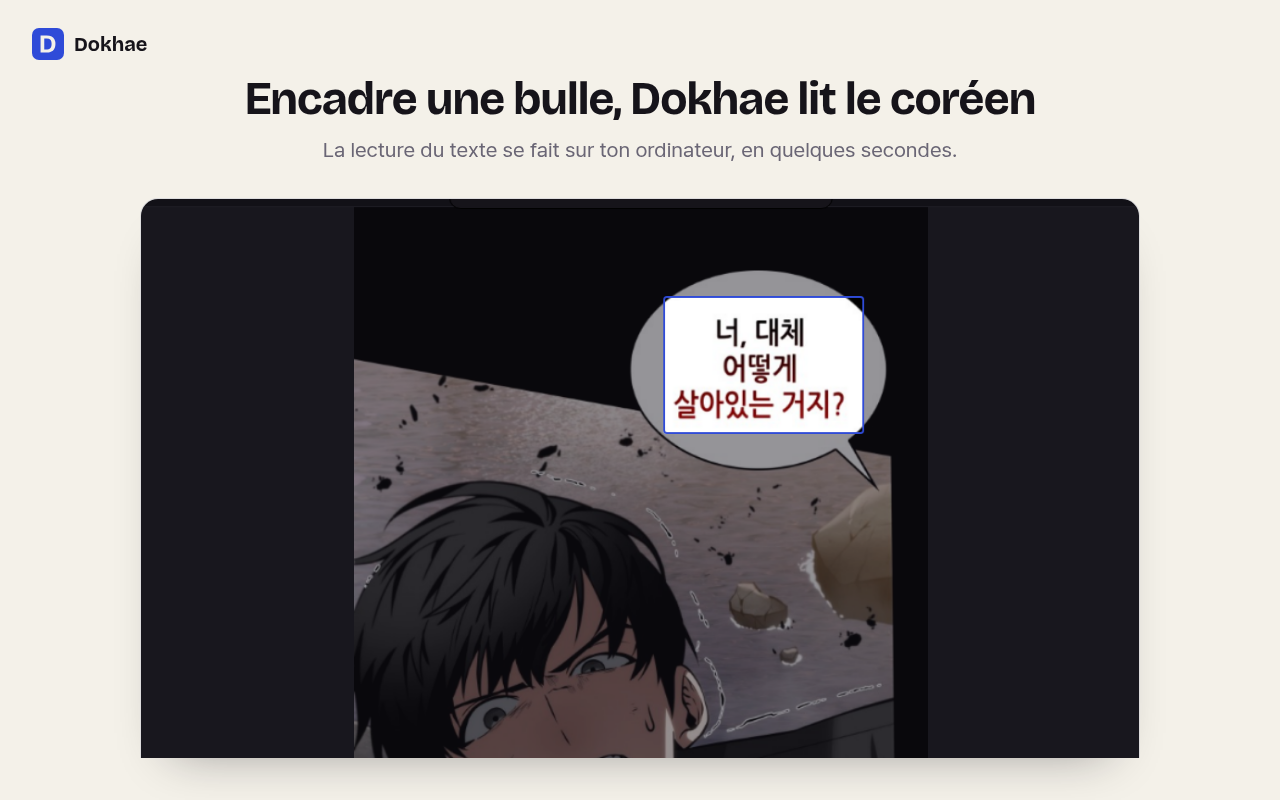
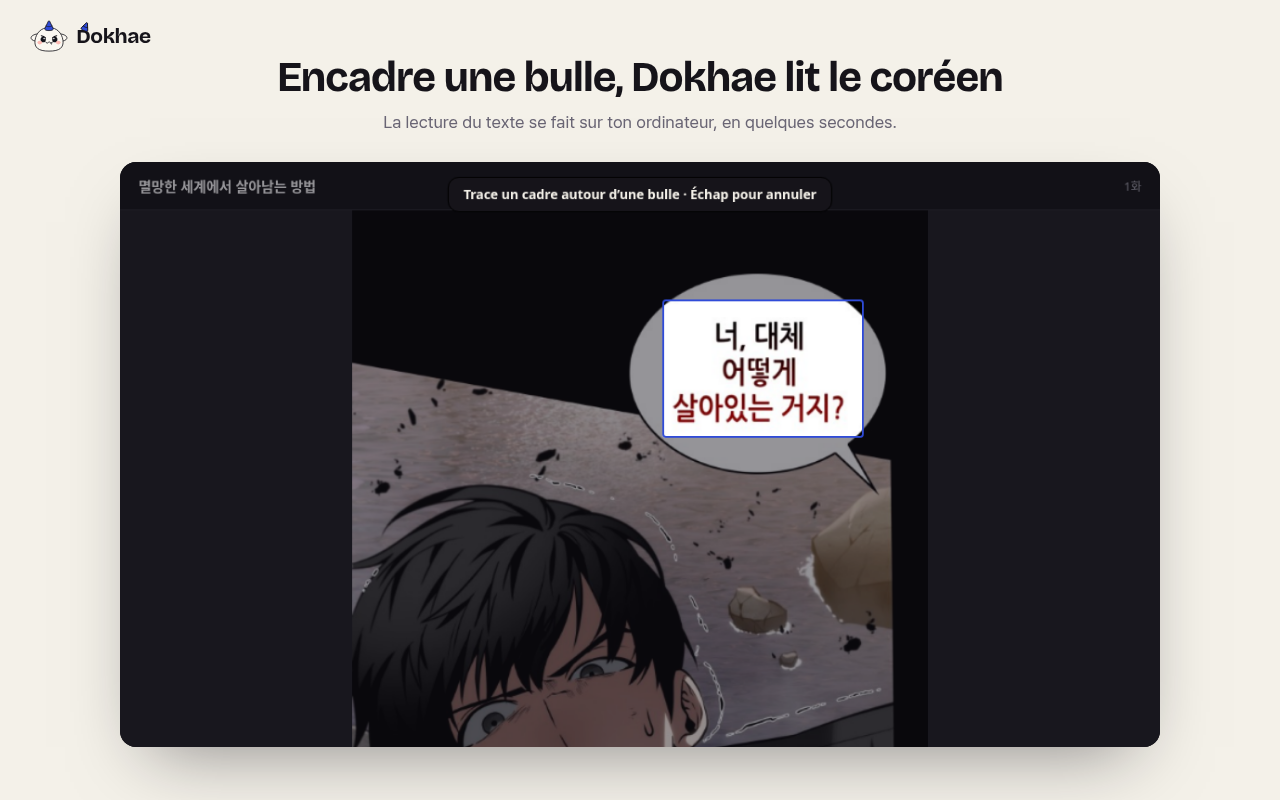
feat(store): regenerate the store visuals with Dok, from a script
The five screenshots and the promo tile still showed the D tile and had no
source: they were laid out by hand. store/shoot.mjs now captures the real
extension on Odin's page (capture, panel, word, deck, both popup states)
and lays each frame out with the site's fonts and Dok's mark, so the next
logo or wording change is one run. The test account's address is replaced
in the popup shot.

diff --git a/store/README.md b/store/README.md
@@ -31,11 +31,19 @@ For an update, bump `version` in both `wxt.config.ts` and `package.json`.
 
 ## Screenshots
 
-The captures come from the real extension against the local site, through
-the site's `scripts/screenshots/shoot.mjs` (build with
-`WXT_SITE_URL=http://localhost:3000 SORI_SCREENSHOTS=1 npm run build`,
-then run it with `SORI_DEMO=real-panel.html SORI_CHIP=어떻게`). They were
-then laid out at 1280 × 800 on the cream background with a French caption.
+`store/shoot.mjs` regenerates the five screenshots and the promo tile: it
+drives the real extension on Odin's webtoon page, then lays each frame out at
+1280 × 800 (Dok's mark, title, subtitle) with the site's fonts. With the
+local site running:
+
+```sh
+WXT_SITE_URL=http://localhost:3000 SORI_SCREENSHOTS=1 npm run build
+SORI_TOKEN=sori_… NODE_PATH=<dir with playwright-core> node store/shoot.mjs
+WXT_SITE_URL=http://localhost:3000 npm run build   # never ship the screenshot build
+```
+
+Titles and subtitles live in the script. The site's own product shots come
+from its `scripts/screenshots/shoot.mjs`.
 
 ## By hand in the dashboard
 
